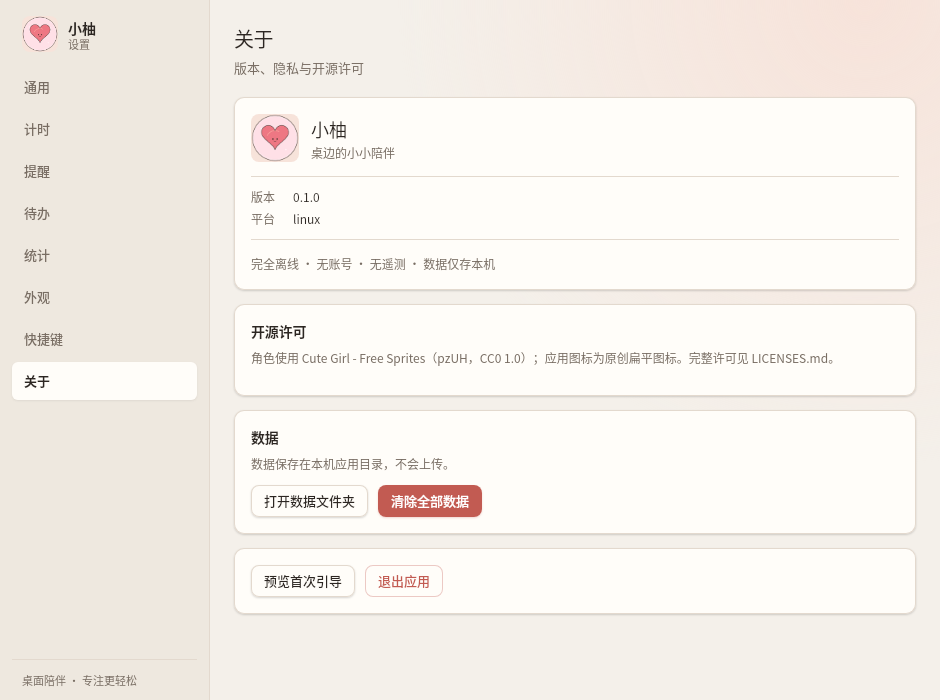
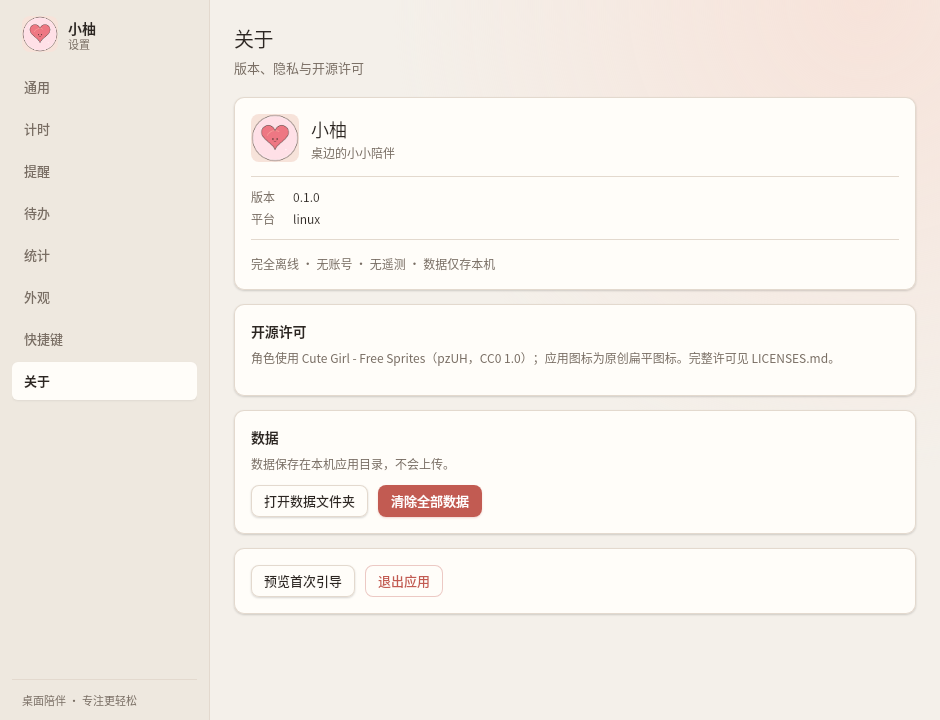
docs(ui): 更新 720 高度截图与角色文案
- 设置窗口高度调整为 720
- 更新 README/docs 当前界面截图（940×720，气泡/引导同步更新）
- 角色风格说明改为完整描述
- 经典皮肤卡片增加柚光/清风前缀
- 清理 .shots 过期截图

diff --git a/frontend/src/lib/characterStyles.ts b/frontend/src/lib/characterStyles.ts
@@ -8,6 +8,10 @@ export interface CharacterStyleOption {
 }
 
 const HERO_PALETTES = ['coral', 'honey', 'mint', 'sky', 'lavender', 'rose', 'night', 'silver'];
+const CLASSIC_PREFIXES: Record<'cutegirl' | 'cuteboy', string> = {
+  cutegirl: 'settings.appearance.classicCharacters.yuzu',
+  cuteboy: 'settings.appearance.classicCharacters.breeze',
+};
 interface HeroCharacter {
   id: string;
   labelKey: string;
@@ -39,6 +43,14 @@ const HERO_CHARACTERS: Partial<Record<CharacterStyle, ReadonlyArray<HeroCharacte
   ],
 };
 
+function classicSkins(style: 'cutegirl' | 'cuteboy'): PetSkinOption[] {
+  return PET_SKIN_OPTIONS.map((option) => ({
+    id: option.id,
+    nameKey: CLASSIC_PREFIXES[style],
+    paletteKey: option.labelKey ?? '',
+  }));
+}
+
 function heroSkins(style: CharacterStyle): PetSkinOption[] {
   return (HERO_CHARACTERS[style] ?? []).flatMap((character) =>
     HERO_PALETTES.map((palette) => ({
@@ -50,8 +62,8 @@ function heroSkins(style: CharacterStyle): PetSkinOption[] {
 }
 
 export const CHARACTER_STYLE_OPTIONS: CharacterStyleOption[] = [
-  { value: 'cutegirl', labelKey: 'settings.appearance.styles.cutegirl', skins: PET_SKIN_OPTIONS },
-  { value: 'cuteboy', labelKey: 'settings.appearance.styles.cuteboy', skins: PET_SKIN_OPTIONS },
+  { value: 'cutegirl', labelKey: 'settings.appearance.styles.cutegirl', skins: classicSkins('cutegirl') },
+  { value: 'cuteboy', labelKey: 'settings.appearance.styles.cuteboy', skins: classicSkins('cuteboy') },
   { value: 'lighthero', labelKey: 'settings.appearance.styles.lighthero', skins: heroSkins('lighthero') },
   { value: 'webguard', labelKey: 'settings.appearance.styles.webguard', skins: heroSkins('webguard') },
   { value: 'ironarmor', labelKey: 'settings.appearance.styles.ironarmor', skins: heroSkins('ironarmor') },

diff --git a/backend/src/windows/settings.rs b/backend/src/windows/settings.rs
@@ -22,7 +22,7 @@ pub fn open_settings(app: &AppHandle) -> Result<(), AppError> {
 
     let window = WebviewWindowBuilder::new(app, SETTINGS, WebviewUrl::App("settings.html".into()))
         .title(title)
-        .inner_size(940.0, 700.0)
+        .inner_size(940.0, 720.0)
         .min_inner_size(800.0, 600.0)
         .resizable(true)
         .center()

diff --git a/docs/04-技术方案与工程规范.md b/docs/04-技术方案与工程规范.md
@@ -1512,7 +1512,7 @@ pub async fn settings_update(
 
 - 角色序列帧管线：`frontend/public/assets/character/<style>/<skin>/manifest.json` + `SpritePlayer`；
   WebP 加载失败时回退 PNG，素材缺失时回退程序化 Canvas 角色。
-- M1 的 11 状态占位序列帧已由 Cute Girl / The Boy 两种风格、各 16 套配色皮肤替换；
+- M1 的 11 状态占位序列帧已由 8 种风格、共 128 套皮肤替换；
   生成脚本为 `scripts/cutegirl/generate.py + icons.py`。
 - Rust 宠物状态机：1Hz ticker、idle/walk/sit/sleep/react、点击 React、拖拽 Drag。
 - 拖拽：4px 阈值、`cursor_position` 物理坐标跟随、松手吸附最近边缘。
@@ -1525,7 +1525,7 @@ pub async fn settings_update(
 
 | 项 | 状态 |
 |---|---|
-| 真实原创角色素材 | M4 已替换为 Cute Girl / The Boy 两种风格、各 16 套配色皮肤 |
+| 真实原创角色素材 | M4 已替换为 8 种风格、共 128 套皮肤 |
 | 原生拖拽/吸附/走动 | 代码通过 `cargo check/clippy`，未在真实 Tauri 窗口运行 |
 | 不抢焦点 | 配置 `focus: false`；平台 spike 方案见 `docs/spikes/no-focus.md` |
 | 原生右键菜单 | 代码通过类型检查，未在真实窗口弹出验证 |
@@ -1589,7 +1589,7 @@ pub async fn settings_update(
 | 快捷键状态 | UI 默认显示“已启用”；注册失败时命令返回冲突错误，启动失败只写日志 |
 | 数据清除 | 清空表后 `app.restart()`；未在真实安装包验证重启路径 |
 | 原生自启/快捷键/通知 | 代码通过类型检查，未在真实 Tauri 环境运行 |
-| 角色素材 | M4 已替换为 Cute Girl / The Boy 两种风格、各 16 套配色皮肤 |
+| 角色素材 | M4 已替换为 8 种风格、共 128 套皮肤 |
 
 ---
 
@@ -1597,7 +1597,7 @@ pub async fn settings_update(
 
 **已落地**
 
-- 角色素材：Cute Girl / The Boy（pzUH，CC0 1.0）两种风格、各 16 套配色皮肤，11 种状态，
+- 角色素材：Cute Girl / The Boy / The Robot / Cat & Dog（pzUH，CC0 1.0）8 种原创风格、共 128 套皮肤，11 种状态，
   每套 11 个动作序列帧；`scripts/cutegirl/` 生成 200×200 WebP 序列帧。
 - 设置 → 外观可切换皮肤；Linux 原生角色窗通过 `settings:changed` 即时重载 Cairo 精灵，Windows/macOS 重载 Canvas SpritePlayer。
 - 健康提醒：`backend/src/reminders.rs`，15s ticker；喝水/久坐/护眼、活跃时段、

diff --git a/CHANGELOG.md b/CHANGELOG.md
@@ -39,6 +39,8 @@
 - 重做两种风格的 `focus` 坐姿：书籍下移到身前，手臂从肩部连接到书侧，双手与书页边缘相连，不再悬浮。
 - 重新设计设置页滚动条：标签栏与内容区各自独立滚动，使用圆角橙色滑块，彻底移除页面级双滚动条和外溢轨道。
 - 将设置页滚动条移到右侧内容区全局容器，缩小滑块尺寸；focus/hover 只改变背景色，不改变尺寸，并修正光标样式。
+- 设置窗口高度调整为 720，重新生成 README/文档截图；清理 `.shots/` 过期截图。
+- 经典皮肤卡片增加角色前缀（柚光 · 海霞 / 清风 · 海霞），并扩充角色风格说明。
 - 外观页将角色风格与角色皮肤拆成独立卡片，风格下拉框移到独立卡片内。
 - 角色风格扩展到 8 种原创主题：新增晨光守护、迅影游侠、赤金战甲、岩甲守卫、星环领航、风语守望；每个新风格包含 2 个角色 × 8 套配色，机甲/猫角色使用 pzUH CC0 机器人/猫素材。
 - focus 改为原生坐姿叠放膝上书，不再在角色身上绘制手臂/手，避免边缘锯齿；书本封面取当前服装主色。

diff --git a/docs/05-发布与验收.md b/docs/05-发布与验收.md
@@ -100,7 +100,7 @@ Get-FileHash <artifact> -Algorithm SHA256
 | 点击穿透 / 恢复 | ☐ | ☐ | ☐ | 降级检查 |
 | 拖拽 / 边缘吸附 | ☐ | ☐ | ☐ | ☐ |
 | 自主走动 / 睡觉 / 反应 | ☐ | ☐ | ☐ | ☐ |
-| 2 种风格 × 16 套皮肤切换 | ☐ | ☐ | ☐ | ☐ |
+| 8 种风格、128 套皮肤切换 | ☐ | ☐ | ☐ | ☐ |
 | 番茄钟完整闭环 | ☐ | ☐ | ☐ | ☐ |
 | 暂停 / 跳过 / 重置 / 重启恢复 | ☐ | ☐ | ☐ | ☐ |
 | 气泡计时 / 快捷预设 / 角色边缘避让 | ☐ | ☐ | ☐ | ☐ |

diff --git a/docs/02-PRD.md b/docs/02-PRD.md
@@ -530,7 +530,7 @@
 
 #### FR-SET-07 外观（MUST）
 
-- 角色风格：柚光少女 / 清风少年；每种 16 套配色皮肤，默认海霞；支持后续扩展。
+- 角色风格：柚光少女 / 清风少年 + 6 种主题风格；经典风格各 16 套配色，主题风格各 2 个角色 × 8 套配色；默认海霞；支持后续扩展。
 - 尺寸：S/M/L；不透明度 60%–100%（默认 100%）。
 - 减少动态效果：跟随系统 / 开 / 关。
 - 点击穿透说明与快捷键提示。

diff --git a/docs/13-角色与图标资源.md b/docs/13-角色与图标资源.md
@@ -28,7 +28,7 @@ Cute Girl 与 The Boy 都是扁平矢量、粉彩配色的 Q 版角色：
 
 ---
 
-## 2. 10 种风格与配色
+## 2. 8 种风格与配色
 
 外观页提供 8 种原创风格：柚光少女、清风少年、晨光守护、迅影游侠、赤金战甲、岩甲守卫、星环领航、风语守望。
 经典两种风格各 16 套配色；新增主题风格各 2 个角色 × 8 套配色（16 个选项）。默认风格：`cutegirl`，默认皮肤：`coral`。
